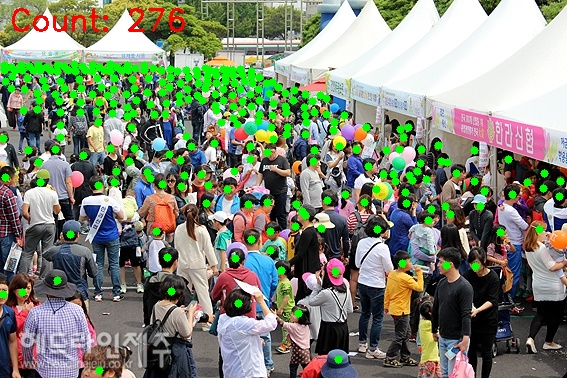
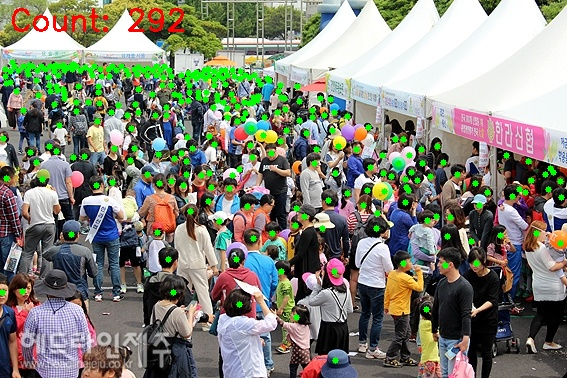
[Feat] point 좌표값 원본 이미지에 맞게 복원, 서버에 좌표 전송(#48)

diff --git a/ai/crowd_counting/apgcc_infer.py b/ai/crowd_counting/apgcc_infer.py
@@ -1,19 +1,49 @@
 import cv2
 import torch
 import numpy as np
+import requests
 from torchvision import transforms
+import torch.nn.functional as F
 
 from models import build_model
 from config import cfg as base_cfg, merge_from_file
 
-# 1. 이미지 전처리
-transform = transforms.Compose([
-    transforms.ToTensor(),
-    transforms.Normalize(mean=[0.485, 0.456, 0.406],
-                         std=[0.229, 0.224, 0.225])
-])
+# -----------------------------
+# 1. 전처리 및 패딩 함수
+# -----------------------------
+def resize_and_pad(image, max_len=1024, block=128):
+    """
+    image: numpy array, RGB 순서
+    max_len: 긴 변의 최대 길이 (상하이텍 데이터셋 1024x768)
+    block: 패딩 단위 (APGCC에서는 128 배수)
+    
+    리사이즈 후 오른쪽과 아래쪽에만 0으로 채운 패딩을 적용하여
+    (new_h, new_w)가 block 배수가 되도록 함.
+    
+    반환:
+      - padded_image: 패딩이 적용된 이미지
+      - new_size: (new_h, new_w) (리사이즈된 이미지의 실제 크기)
+      - orig_size: (orig_h, orig_w) (원본 이미지 크기)
+      - scale: 리사이즈 스케일
+    """
+    orig_h, orig_w = image.shape[:2]
+    # 긴 변 기준 스케일 계산 (비율 유지)
+    scale = min(max_len / orig_h, max_len / orig_w)
+    new_w = int(orig_w * scale)
+    new_h = int(orig_h * scale)
+    image_resized = cv2.resize(image, (new_w, new_h))
+    
+    # 오른쪽, 아래쪽에만 패딩 적용: APGCC dataset에서는 좌측 상단 정렬
+    pad_h = ((new_h - 1) // block + 1) * block - new_h
+    pad_w = ((new_w - 1) // block + 1) * block - new_w
+    padded_image = np.zeros((new_h + pad_h, new_w + pad_w, 3), dtype=image_resized.dtype)
+    padded_image[:new_h, :new_w, :] = image_resized
+    
+    return padded_image, (new_h, new_w), (orig_h, orig_w), scale
 
-# 2. 모델 불러오기 함수
+# -----------------------------
+# 2. 모델 로딩 함수 (APGCC 방식)
+# -----------------------------
 def load_model(cfg_path, weight_path):
     cfg = merge_from_file(base_cfg, cfg_path)
     cfg.TEST.WEIGHT = weight_path
@@ -24,51 +54,112 @@ def load_model(cfg_path, weight_path):
     model.to(device)
     model.eval()
 
-    # 가중치 불러오기
     state_dict = torch.load(weight_path, map_location='cpu')
     model.load_state_dict(state_dict)
-
     return model, cfg, device
 
-# 3. 단일 이미지 추론 (좌표 복원 방식)
+# -----------------------------
+# 3. 좌표 전송 함수
+# -----------------------------
+def send_coordinates(points, server_url):
+    """
+    points: numpy 배열 (N,2)의 형태, 원본 이미지 좌표
+    server_url: 좌표 데이터를 전송할 서버의 엔드포인트 URL
+    """
+    # numpy 배열을 리스트로 변환하여 전송
+    payload = {"points": points.tolist()}
+    try:
+        response = requests.post(server_url, json=payload)
+        if response.status_code == 200:
+            print("좌표 전송 성공")
+        else:
+            print(f"좌표 전송 실패, 상태 코드: {response.status_code}")
+    except Exception as e:
+        print(f"좌표 전송 중 오류 발생: {e}")
+
+# -----------------------------
+# 4. 추론 및 원본 복원 함수 (좌표 전송 포함)
+# -----------------------------
+# transform: APGCC에서 사용하는 ToTensor + Normalize
+transform = transforms.Compose([
+    transforms.ToTensor(),
+    transforms.Normalize(mean=[0.485, 0.456, 0.406],
+                         std=[0.229, 0.224, 0.225])
+])
+
 @torch.no_grad()
-def infer_image(model, device, image_path, threshold=0.5, save_path='output.jpg'):
-    # 이미지 읽기
+def inference_and_restore(model, device, image_path, threshold=0.5, save_path='output_result.jpg', server_url=None):
+    """
+    이미지 파일을 읽어 APGCC 전처리 과정(리사이즈 + 패딩)을 적용하고 모델 추론,
+    예측된 포인트들을 원본 이미지 좌표로 복원한 후 결과 이미지를 저장합니다.
+    또한 server_url이 제공되면 해당 좌표들을 서버로 전송합니다.
+    """
+    # 원본 이미지(BGR) 읽기 및 RGB 변환
     image_bgr = cv2.imread(image_path)
-    orig_h, orig_w = image_bgr.shape[:2]
-
-    # 전처리용 RGB 이미지 생성 및 리사이즈 (512x512)
+    if image_bgr is None:
+        print(f"이미지 파일을 찾을 수 없습니다: {image_path}")
+        return
     image_rgb = cv2.cvtColor(image_bgr, cv2.COLOR_BGR2RGB)
-    image_rgb_resized = cv2.resize(image_rgb, (512, 512))
-    input_tensor = transform(image_rgb_resized).unsqueeze(0).to(device)
-
+    
+    # 리사이즈 및 패딩 적용
+    padded_image, new_size, orig_size, scale = resize_and_pad(image_rgb, max_len=1024, block=128)
+    
+    # 변환: 이미지를 tensor로 변환 및 normalize (APGCC 학습 시의 처리와 동일)
+    input_tensor = transform(padded_image)
+    input_tensor = input_tensor.unsqueeze(0).to(device)
+    
     # 모델 추론
     output = model(input_tensor)
-    scores = torch.nn.functional.softmax(output['pred_logits'], -1)[0, :, 1]
+    # 모델 출력 예시: {'pred_logits': logits, 'pred_points': point 좌표}
+    # 여기서, 점수 (softmax 후 클래스 1에 해당하는 값)를 기준으로 threshold 이상인 포인트 선택
+    scores = F.softmax(output['pred_logits'], dim=-1)[0, :, 1]
     points = output['pred_points'][0][scores > threshold].detach().cpu().numpy()
+    
+    # -----------------------------
+    # 5. 예측 좌표 복원 과정
+    # -----------------------------
+    new_h, new_w = new_size
+    points[:, 0] = np.clip(points[:, 0], 0, new_w - 1)
+    points[:, 1] = np.clip(points[:, 1], 0, new_h - 1)
+    # 리사이즈 스케일을 반영해 원본 이미지 좌표로 복원 (패딩은 오른쪽, 아래쪽에만 적용되었으므로 별도 오프셋 없음)
+    points[:, 0] /= scale
+    points[:, 1] /= scale
 
-    # 예측된 좌표를 원래 이미지 사이즈로 복원
-    scale_x = orig_w / 512
-    scale_y = orig_h / 512
-    points[:, 0] *= scale_x
-    points[:, 1] *= scale_y
-
-    # 결과 시각화
+    # -----------------------------
+    # 6. 시각화 및 좌표 전송
+    # -----------------------------
     for (x, y) in points:
-        cv2.circle(image_bgr, (int(x), int(y)), 4, (0, 255, 0), -1)
+        cv2.circle(image_bgr, (int(x), int(y)), 3, (0, 255, 0), -1)
     cv2.putText(image_bgr, f"Count: {len(points)}", (10, 30),
                 cv2.FONT_HERSHEY_SIMPLEX, 1, (0, 0, 255), 2)
-
-    # 저장
+    
     cv2.imwrite(save_path, image_bgr)
-    print(f"[✅] Saved: {save_path} | Count: {len(points)}")
+    print(f"결과 저장: {save_path} | 예측 개수: {len(points)}")
+    
+    if server_url is None:
+        print(points.tolist())
 
+    # 서버 URL이 주어졌다면 좌표 전송
+    if server_url is not None:
+        send_coordinates(points, server_url)
+
+# -----------------------------
+# 7. 메인 실행 예시
+# -----------------------------
 if __name__ == '__main__':
-    model, cfg, device = load_model('./configs/SHHA_test.yml', './output/SHHA_best.pth')
-    infer_image(
+    # 설정 파일 및 모델 가중치 경로 (APGCC Git의 설정에 맞게 수정)
+    cfg_path = './configs/SHHA_test.yml'
+    weight_path = './output/SHHA_best.pth'
+    
+    # 좌표를 전송할 서버 엔드포인트 (실제 서버 주소로 변경)
+    server_url = None
+    
+    model, cfg, device = load_model(cfg_path, weight_path)
+    inference_and_restore(
         model=model,
         device=device,
-        image_path='B3.jpg',   # 입력 이미지 경로
-        threshold=0.5,
-        save_path='output_result.jpg'
+        image_path='B3.jpg',      # 입력 이미지 파일 경로
+        threshold=0.5,                     # 예측 점수 threshold
+        save_path='output_result.jpg',
+        server_url=server_url              # 좌표 전송을 위한 서버 URL
     )
